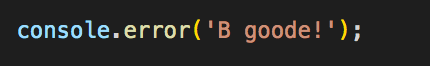
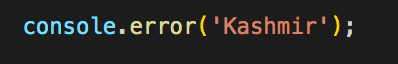
result images

Changed region(s): [[0.0302, 0.25, 0.9045, 0.6562]]

diff --git a/post1/index.js b/post1/index.js
@@ -30,12 +30,12 @@ console.log('@yazilimRobotu rocks!');
 // 4. console.warn()
 // console'da uyarı mesajı gösterir
 
-console.warn('Johnny');
+console.warn('Johnny B. Goode');
 
 // 5. console.error()
 // console'da hata mesajı gösterir
 
-console.error('B goode!');
+console.error('Kashmir');
 
 // 6. console.count()
 // console'da method'un kaç defa çağırıldığını gösterir
